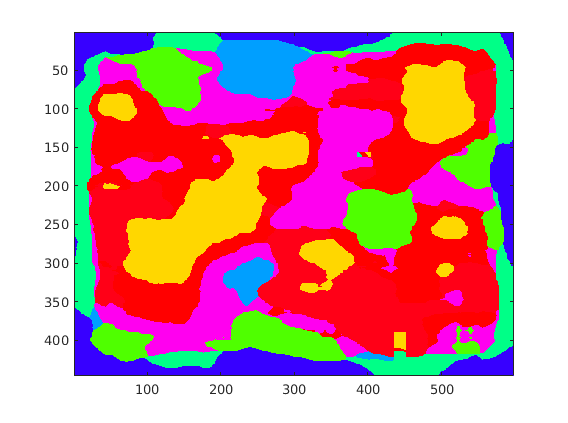
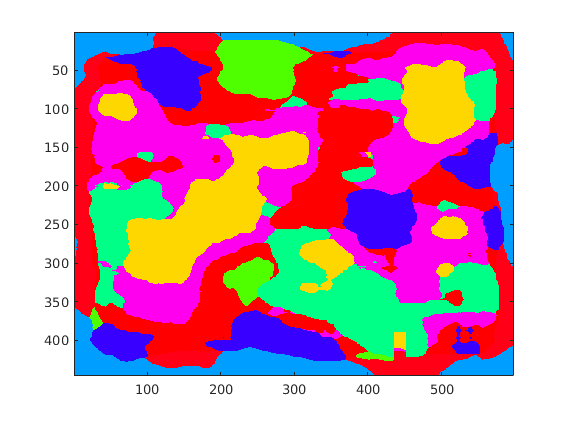
final result

diff --git a/segmentMain.m b/segmentMain.m
@@ -13,7 +13,7 @@ L = im2double(imread('images/car.jpg'));
 % Parameters to be tuned.
 k = 10; % determines the number of bins for histogram
 winSize = 65;
-numColorRegions = 4;
+numColorRegions = 6;
 numTextureRegions = 8;
 
 % Load the filter bank.
